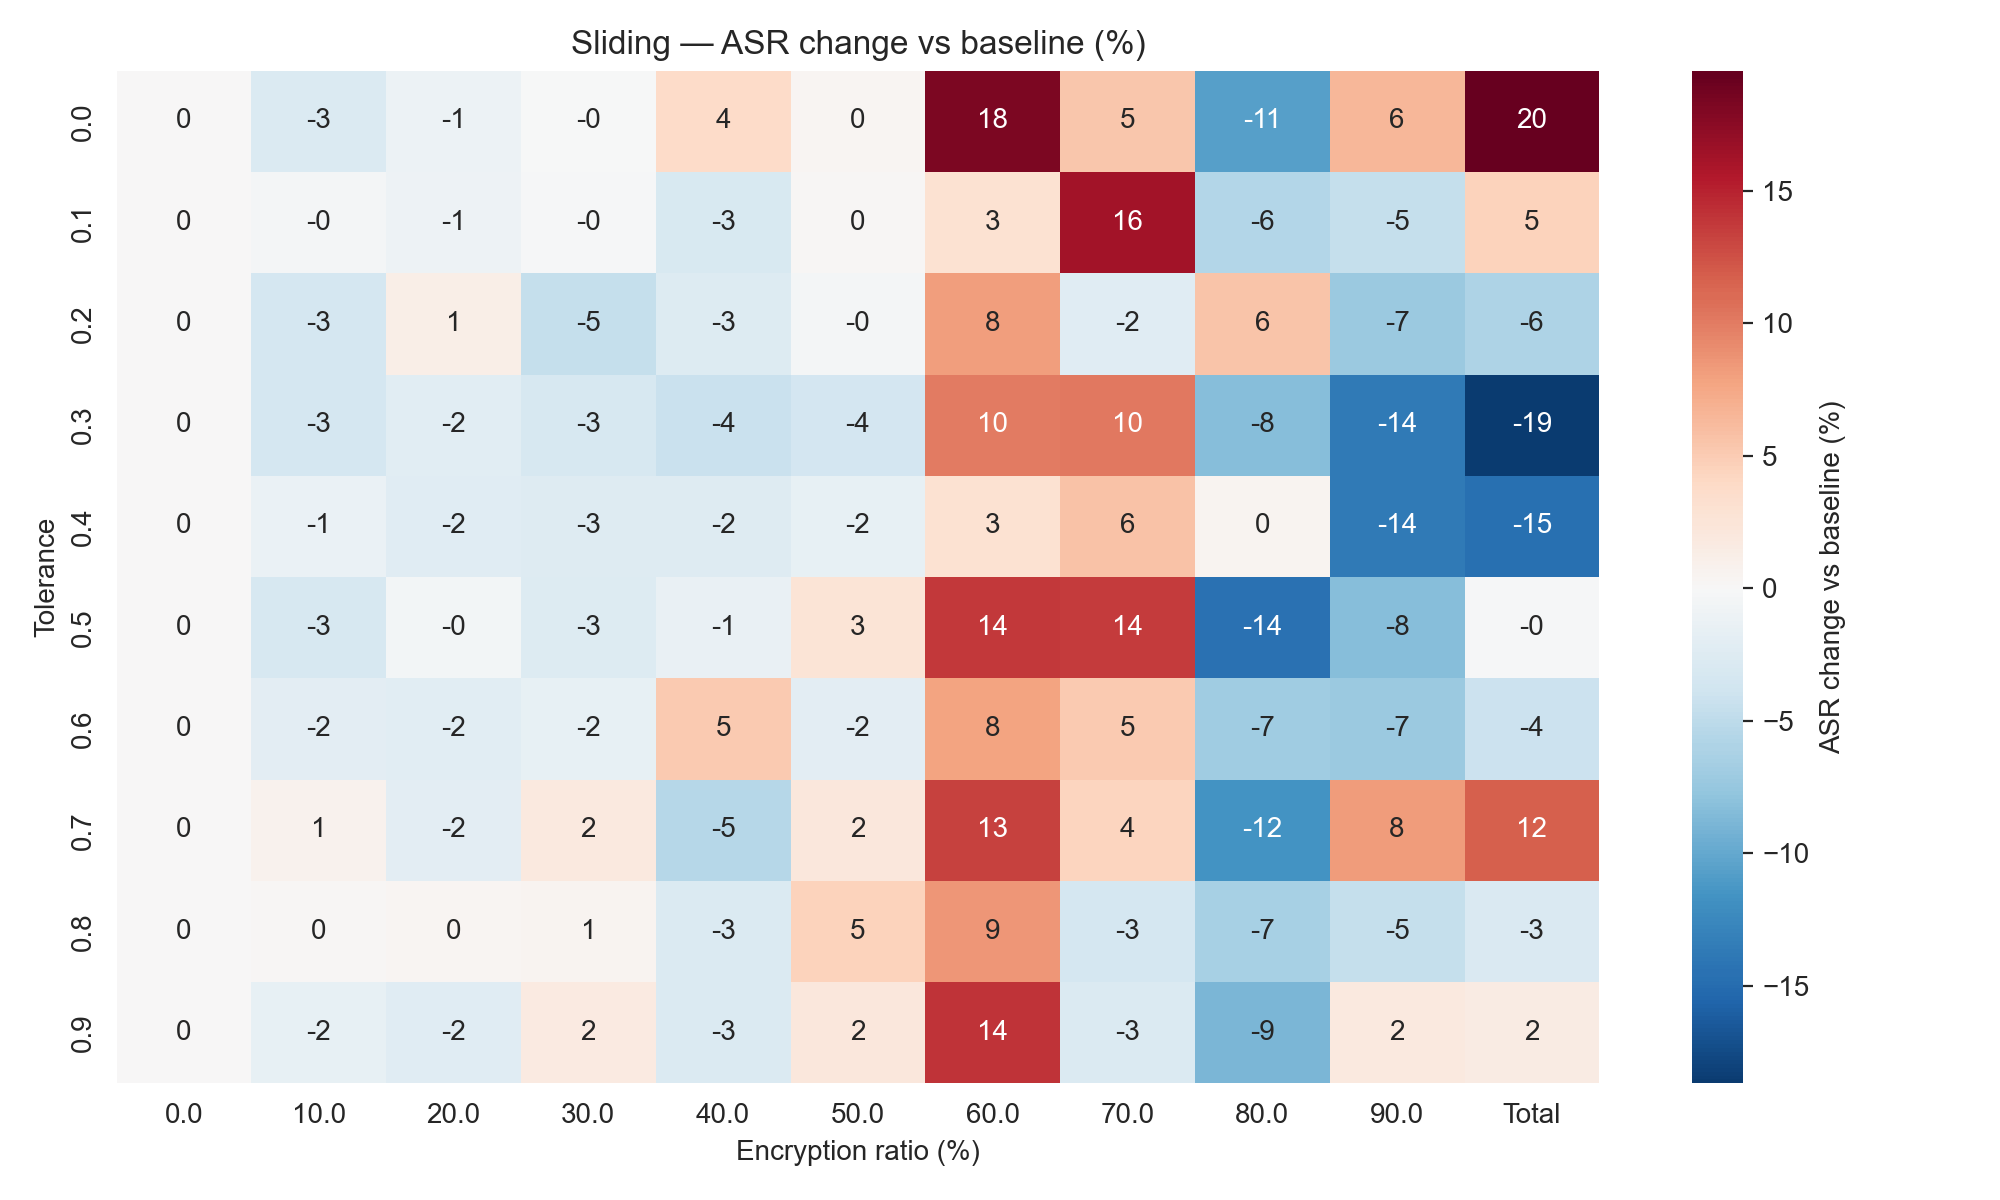
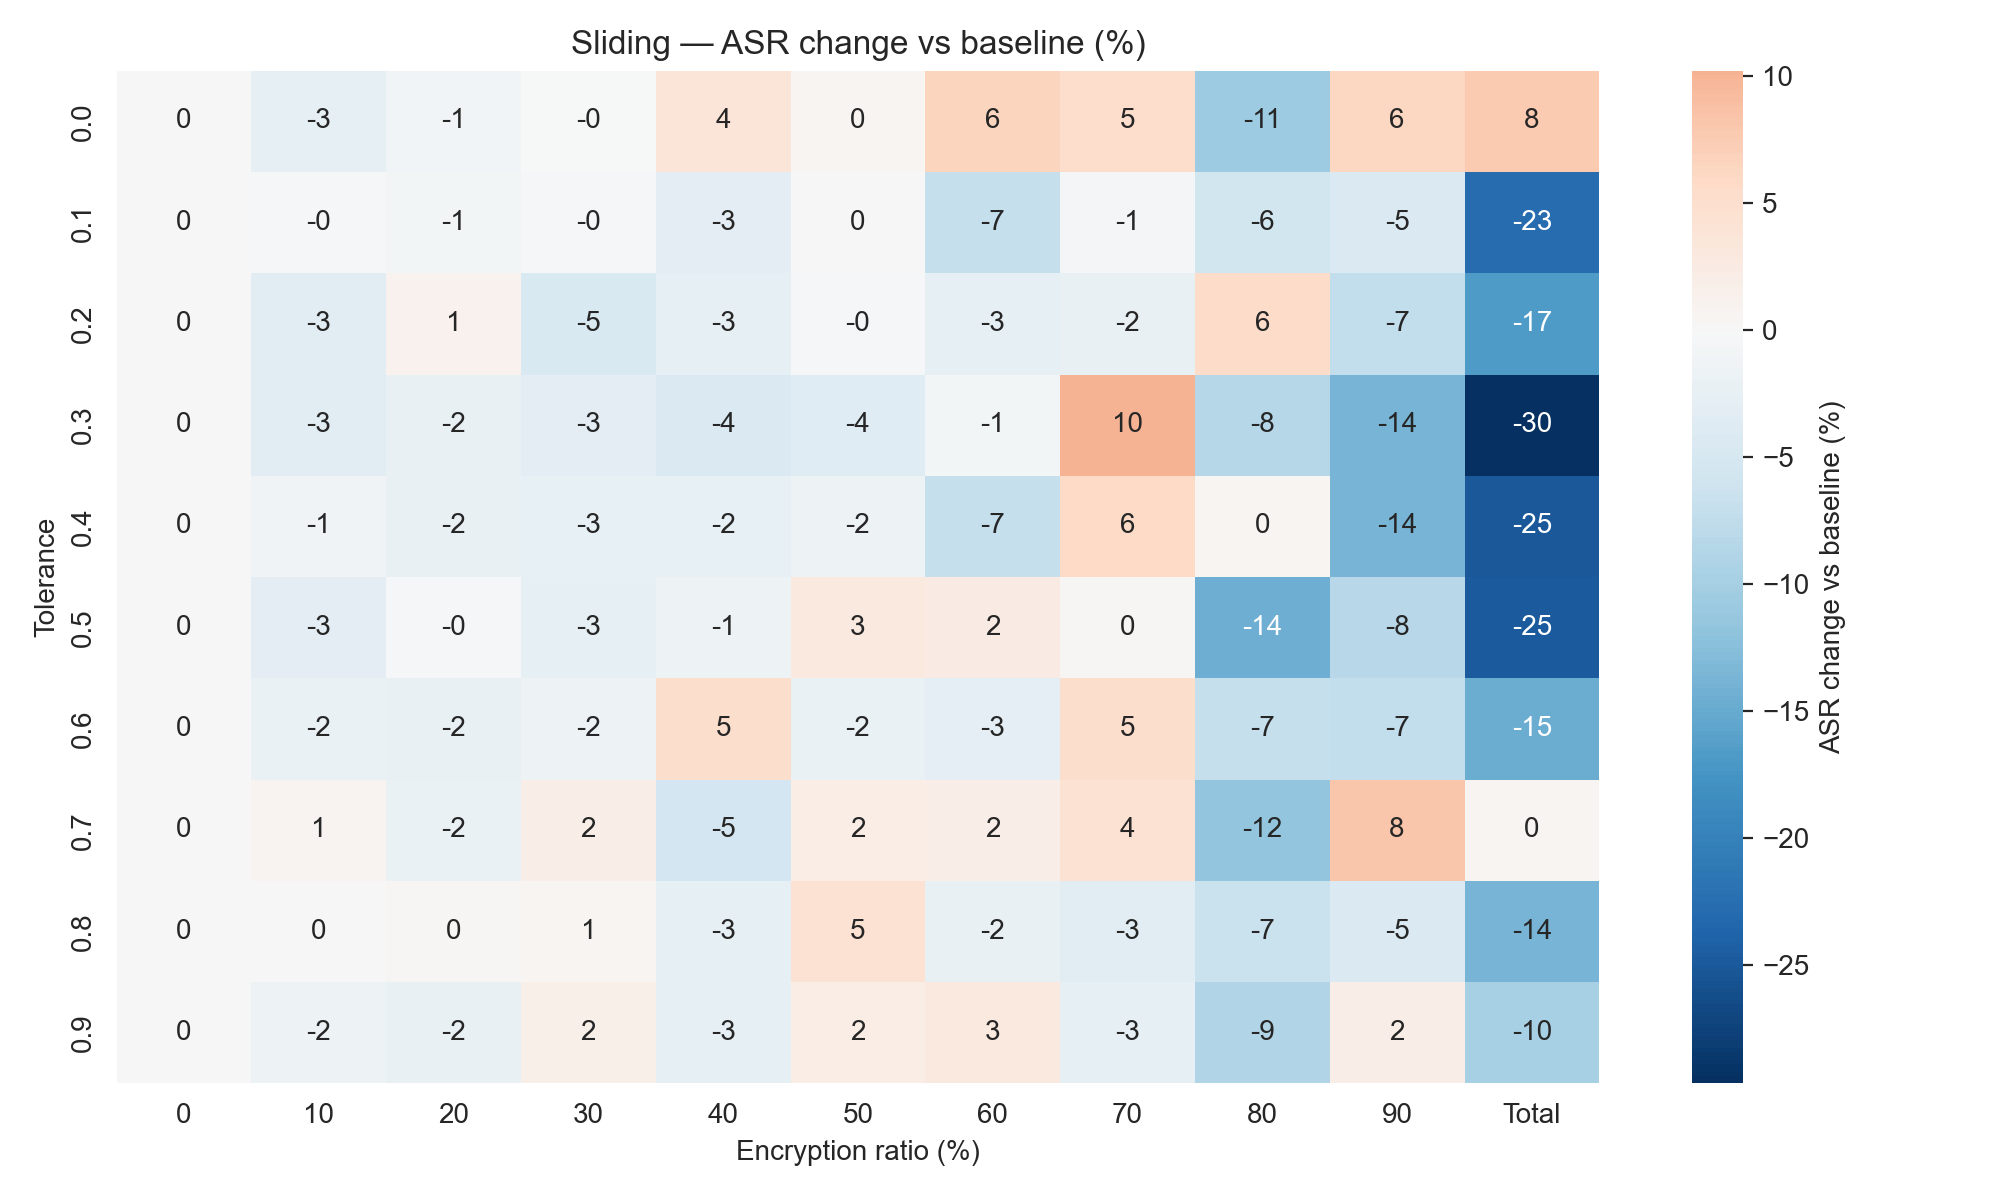
Rerun parts for more accurate results

diff --git a/combograph.py b/combograph.py
@@ -5,7 +5,7 @@ import matplotlib.pyplot as plt
 import seaborn as sns
 from matplotlib.ticker import FuncFormatter
 
-IN_CSV = "results8.csv"
+IN_CSV = "resultsAVG8.csv"
 OUT_DIR = "plots"
 
 def parse_time_to_seconds(s: str) -> float:
